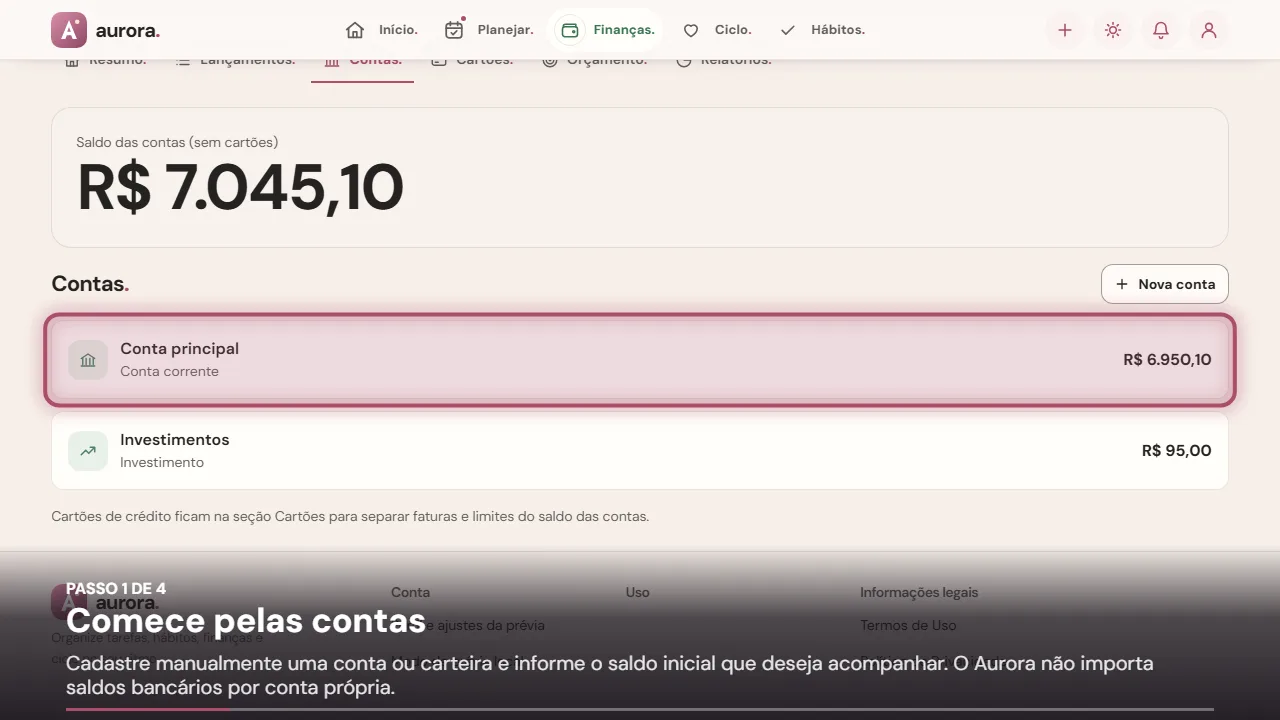
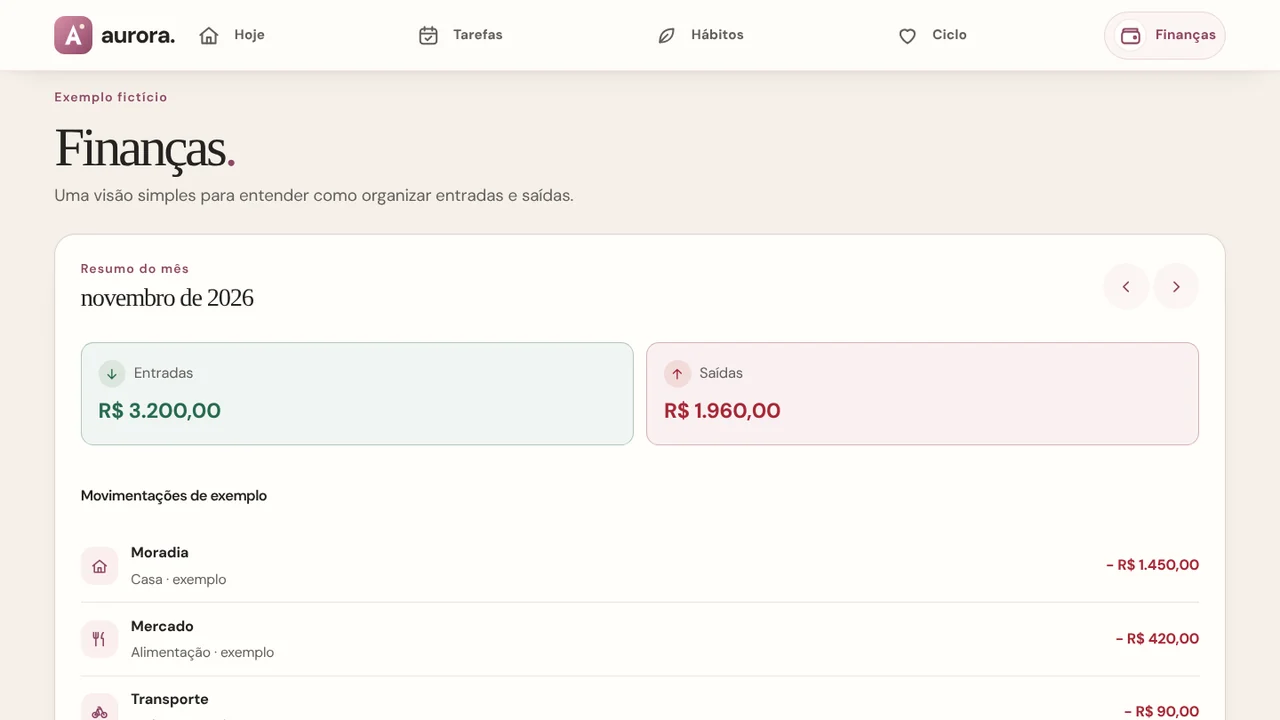
feat(visual): refinar landing, demonstração e áreas logadas
Landing: imagens do hero e dos tutoriais regeradas a partir da demonstração
atual, passos alinhados, títulos mais largos, abas com pista de rolagem, fundos
unificados e rodapé mais compacto.

App: resumo do Hoje em uma linha no desktop, Finanças com totais coloridos e
ícones por categoria, Hábitos em duas colunas, tipografia editorial na
demonstração e bordas de cartão mais definidas.

diff --git a/src/js/features/landing/demo.js b/src/js/features/landing/demo.js
@@ -66,7 +66,7 @@ function renderHabitCard(state, { large = false } = {}) {
 }
 
 function renderPageHeading(eyebrow, title, description = '') {
-  return `<header class="demo-page-heading"><div><p class="section-kicker">${eyebrow}</p><h1 tabindex="-1">${title}</h1>${description ? `<p>${description}</p>` : ''}</div></header>`;
+  return `<header class="demo-page-heading"><div><p class="section-kicker">${eyebrow}</p><h1 tabindex="-1">${title}<i>.</i></h1>${description ? `<p>${description}</p>` : ''}</div></header>`;
 }
 
 function demoNotice() {
@@ -94,7 +94,7 @@ function renderToday(state) {
     <header class="home-head" aria-labelledby="demo-greeting">
       <div>
         <p class="date">${escapeDemoText(shortDate.charAt(0).toUpperCase() + shortDate.slice(1))}</p>
-        <h1 id="demo-greeting" tabindex="-1">${timeBasedGreeting()}, <span class="proper-name">Pessoa</span></h1>
+        <h1 id="demo-greeting" class="type-editorial-display" tabindex="-1">${timeBasedGreeting()}, <span class="proper-name">Pessoa</span><i>.</i></h1>
         <p class="lead" aria-live="polite">${lead}</p>
       </div>
       <div class="ringw" role="img" aria-label="${completed} de ${total} tarefas de hoje concluídas"><svg width="76" height="76" viewBox="0 0 76 76" aria-hidden="true"><circle class="ring-bg" cx="38" cy="38" r="32" fill="none" stroke-width="7"/><circle class="ring-fg" cx="38" cy="38" r="32" fill="none" stroke-width="7" stroke-linecap="round" stroke-dasharray="${circumference.toFixed(1)}" stroke-dashoffset="${offset.toFixed(1)}" transform="rotate(-90 38 38)"/></svg><div class="rt">${completed}/${total}</div></div>
@@ -102,7 +102,7 @@ function renderToday(state) {
     <div class="home-dashboard no-optional-areas">
       <div class="home-primary">
         <section class="card home-today-card" aria-labelledby="demo-today-tasks-title">
-          <div class="head"><div><p class="section-kicker">Seu plano</p><h2 id="demo-today-tasks-title">Hoje</h2></div><div class="row"><button type="button" class="btn ghost sm" data-demo-view="tasks">Ver planejamento</button></div></div>
+          <div class="head"><div><p class="section-kicker">Seu plano</p><h2 id="demo-today-tasks-title" class="type-editorial-title">Hoje</h2></div><div class="row"><button type="button" class="btn ghost sm" data-demo-view="tasks">Ver planejamento</button></div></div>
           <div class="home-task-groups">
             ${open.length ? `<section class="home-task-group" aria-label="Tarefas para hoje"><h3>${demoIcon('calendarCheck', 15)}Para hoje <span>${open.length}</span></h3><ul class="list">${open.map(renderHomeTask).join('')}</ul></section>` : ''}
             ${done.length ? `<details class="home-completed"><summary>${demoIcon('check', 15)}Concluídas hoje <span class="home-completed-count">${done.length}</span></summary><ul class="list">${done.map(renderHomeTask).join('')}</ul></details>` : ''}
@@ -114,7 +114,7 @@ function renderToday(state) {
           <a href="/demonstracao" data-demo-view="tasks"><b>${open.length}</b><span>Pendentes</span></a>
         </section>
         <section class="card home-quick-card" aria-labelledby="demo-quick-title">
-          <div class="home-quick-copy"><span class="home-quick-mark" aria-hidden="true">${demoIcon('plus', 18)}</span><div><h2 id="demo-quick-title">Qual é o próximo passo<i>?</i></h2><p>Experimente adicionar uma tarefa.</p></div></div>
+          <div class="home-quick-copy"><span class="home-quick-mark" aria-hidden="true">${demoIcon('plus', 18)}</span><div><h2 id="demo-quick-title" class="type-editorial-title">Qual é o próximo passo<i>?</i></h2><p>Experimente adicionar uma tarefa.</p></div></div>
           <form class="home-quick-form demo-quick-form" data-demo-task-form>
             <label class="sr" for="demo-home-task">Nova tarefa</label>
             <input id="demo-home-task" name="title" type="text" maxlength="80" autocomplete="off" placeholder="Ex.: caminhar por 10 minutos" required data-demo-task-input>
@@ -175,16 +175,16 @@ function renderFinance(state) {
   const monthKey = `${date.getFullYear()}-${String(date.getMonth() + 1).padStart(2, '0')}`;
   const extraExpenses = state.demoExpenses.filter((item) => item.month === monthKey);
   const items = state.financeMonth === 0
-    ? [['Moradia', 'Casa', 145000], ['Mercado', 'Alimentação', 42000], ['Transporte', 'Rotina', 9000]]
-    : [['Moradia', 'Casa', 120000], ['Mercado', 'Alimentação', 39000]];
+    ? [['Moradia', 'Casa', 145000, 'home'], ['Mercado', 'Alimentação', 42000, 'utensils'], ['Transporte', 'Rotina', 9000, 'bike']]
+    : [['Moradia', 'Casa', 120000, 'home'], ['Mercado', 'Alimentação', 39000, 'utensils']];
   const expenses = items.reduce((total, [, , cents]) => total + cents, 0)
     + extraExpenses.reduce((total, item) => total + item.cents, 0);
   return `${renderPageHeading('Exemplo fictício', 'Finanças', 'Uma visão simples para entender como organizar entradas e saídas.')}
     <section class="card demo-area-panel" aria-labelledby="demo-finance-title">
       <div class="head"><div><p class="section-kicker">Resumo do mês</p><h2 id="demo-finance-title">${escapeDemoText(title)}</h2></div><div class="demo-month-controls" role="group" aria-label="Mês de exemplo"><button type="button" class="iconbtn" data-demo-action="finance-month" data-direction="-1" aria-label="Mês anterior" ${state.financeMonth === 1 ? 'disabled' : ''}>${demoIcon('chevLeft', 18)}</button><button type="button" class="iconbtn" data-demo-action="finance-month" data-direction="1" aria-label="Próximo mês" ${state.financeMonth === 0 ? 'disabled' : ''}>${demoIcon('chevRight', 18)}</button></div></div>
-      <div class="demo-finance-summary"><article><span>Entradas</span><strong>${brl(320000)}</strong></article><article><span>Saídas</span><strong>${brl(expenses)}</strong></article></div>
+      <div class="demo-finance-summary"><article class="is-income"><span><i aria-hidden="true">${demoIcon('arrowDown', 15)}</i>Entradas</span><strong>${brl(320000)}</strong></article><article class="is-expense"><span><i aria-hidden="true">${demoIcon('arrowUp', 15)}</i>Saídas</span><strong>${brl(expenses)}</strong></article></div>
       <h3 class="demo-list-heading">Movimentações de exemplo</h3>
-      <ul class="demo-finance-list">${items.map(([name, category, cents]) => `<li><span class="demo-finance-mark">${demoIcon('wallet', 17)}</span><span><b>${name}</b><small>${category} · exemplo</small></span><strong>− ${brl(cents)}</strong></li>`).join('')}${extraExpenses.map((item) => `<li><span class="demo-finance-mark">${demoIcon('wallet', 17)}</span><span><b>${escapeDemoText(item.title)}</b><small>Outra despesa · exemplo</small></span><strong>− ${brl(item.cents)}</strong></li>`).join('')}</ul>
+      <ul class="demo-finance-list">${items.map(([name, category, cents, icon]) => `<li><span class="demo-finance-mark">${demoIcon(icon, 17)}</span><span><b>${name}</b><small>${category} · exemplo</small></span><strong>− ${brl(cents)}</strong></li>`).join('')}${extraExpenses.map((item) => `<li><span class="demo-finance-mark">${demoIcon('tag', 17)}</span><span><b>${escapeDemoText(item.title)}</b><small>Outra despesa · exemplo</small></span><strong>− ${brl(item.cents)}</strong></li>`).join('')}</ul>
       <form class="demo-add-form" data-demo-expense-form>
         <label for="demo-expense-title">Lançar uma despesa fictícia</label>
         <div><input id="demo-expense-title" name="title" type="text" maxlength="60" placeholder="Ex.: café" required><input name="amount" type="text" inputmode="decimal" maxlength="16" placeholder="R$ 12,50" aria-label="Valor da despesa" required><button class="btn primary" type="submit">Adicionar</button></div>

diff --git a/src/css/pages/landing.css b/src/css/pages/landing.css
@@ -3198,3 +3198,118 @@ html:has(.landing-marketing) { overflow-x: clip; }
 @media (900px <= width < 1200px) {
   .public-site.landing-marketing .public-hero { grid-template-columns: minmax(0, 1.12fr) minmax(0, .88fr); }
 }
+
+/* Revisão visual (nov/2026): ritmo das seções, "Como começar" alinhado, abas com pista de rolagem e rodapé mais compacto. */
+.landing-marketing .public-section-heading h2,
+.landing-marketing .landing-final-cta h2 { max-width: 30ch; }
+
+/* As seções claras usam a mesma família de tons do hero; só "Pode confiar" fica escura. */
+.landing-marketing .landing-steps { background: var(--soft); }
+.landing-marketing .landing-final-cta { background: var(--soft2); }
+
+/* Os três passos dividem as linhas do grid, então títulos de uma ou duas linhas não desalinham os textos. */
+.landing-steps-grid { row-gap: var(--space-4); }
+@media (width >= 901px) {
+  .landing-steps-grid li {
+    display: grid;
+    grid-row: span 3;
+    grid-template-rows: subgrid;
+    row-gap: 0;
+  }
+  .landing-steps-grid li > p { margin-top: var(--space-2); }
+}
+.landing-steps-grid h3 { text-wrap: balance; }
+.landing-marketing .landing-steps-cta { justify-self: center; }
+
+/* No celular as abas rolam de lado: o degradê no fim mostra que há mais áreas. */
+@media (width <= 700px) {
+  .landing-marketing .landing-tutorial-tabs {
+    padding-inline-end: var(--space-6);
+    scroll-padding-inline: var(--space-3);
+    mask-image: linear-gradient(to right, #000 calc(100% - var(--space-7)), transparent);
+  }
+}
+
+/* Rodapé: links mais próximos com mouse; o alvo de toque de 44px continua no celular. */
+@media (pointer: fine) {
+  .landing-footer-link-group a,
+  .landing-footer-top { min-height: 32px; }
+}
+.landing-footer-nav { align-content: start; }
+
+/* Demonstração: mesma tipografia editorial do app (título em serifa, ponto na cor da marca). */
+.demo-app .home-head h1.type-editorial-display,
+.demo-app .demo-page-heading h1 {
+  color: var(--ink);
+  font-family: var(--font-editorial);
+  font-size: var(--text-page-title);
+  font-weight: var(--weight-regular);
+  letter-spacing: var(--tracking-editorial);
+  line-height: var(--leading-editorial);
+}
+.demo-app .home-head h1 i,
+.demo-app .demo-page-heading h1 i { color: var(--accent); font-style: normal; }
+.demo-app .home-head h1.type-editorial-display { max-width: none; }
+.demo-app .home-today-card > .head h2.type-editorial-title,
+.demo-app .home-quick-card h2.type-editorial-title,
+.demo-app .demo-area-panel > .head h2 {
+  color: var(--ink);
+  font-family: var(--font-editorial);
+  font-size: var(--text-editorial-title);
+  font-weight: var(--weight-regular);
+  letter-spacing: -.04em;
+  line-height: var(--leading-tight);
+}
+.demo-app .home-quick-card h2 i { color: var(--accent); font-style: normal; }
+
+/* Finanças: entradas e saídas com tom próprio e ícone de categoria em cada linha. */
+.demo-finance-summary .is-income { --summary-tone: var(--ok); }
+.demo-finance-summary .is-expense { --summary-tone: var(--bad); }
+.demo-finance-summary article {
+  border: 1px solid color-mix(in srgb, var(--summary-tone) 22%, var(--line));
+  background: color-mix(in srgb, var(--summary-tone) 7%, var(--surface-raised));
+}
+.demo-finance-summary span { display: flex; align-items: center; gap: var(--space-2); }
+.demo-finance-summary span i {
+  display: inline-grid;
+  width: 26px;
+  height: 26px;
+  place-items: center;
+  border-radius: var(--r-pill);
+  background: color-mix(in srgb, var(--summary-tone) 16%, var(--surface));
+  color: var(--summary-tone);
+}
+.demo-finance-summary strong { color: var(--summary-tone); font-size: var(--text-xl); font-variant-numeric: tabular-nums; }
+.demo-finance-list .demo-finance-mark {
+  display: grid;
+  width: 36px;
+  height: 36px;
+  flex: none;
+  place-items: center;
+  border-radius: var(--r-control);
+  background: var(--soft2);
+  color: var(--accent);
+}
+.demo-finance-list li > strong { color: var(--bad); font-variant-numeric: tabular-nums; white-space: nowrap; }
+
+/* Hábitos: o cartão e a nota dividem a largura no desktop, e o ícone ganha um apoio visual. */
+@media (width >= 900px) {
+  .demo-area-single:has(.demo-habit-card--large) {
+    width: 100%;
+    grid-template-columns: minmax(0, 1.5fr) minmax(0, 1fr);
+    align-items: start;
+  }
+}
+.demo-habit-card > .head > .ic {
+  display: grid;
+  width: 44px;
+  height: 44px;
+  place-items: center;
+  border-radius: var(--r-control);
+  background: var(--soft2);
+}
+
+/* Menu da demonstração no celular: o degradê no fim mostra que há mais áreas ao rolar. */
+@media (width < 900px) {
+  .demo-app .topbar .demo-nav { mask-image: linear-gradient(to right, #000 calc(100% - 28px), transparent); }
+}

diff --git a/src/js/features/landing/view.js b/src/js/features/landing/view.js
@@ -139,10 +139,10 @@ function landingFooter() {
           <h2>Começar</h2>
           <a href="${signup}" data-public-action="signup">Criar conta</a>
           <a href="${login}" data-public-action="login">Entrar</a>
+          <a href="${demo}" data-public-action="demo">Demonstração</a>
         </div>
         <div class="landing-footer-link-group">
           <h2>Explorar</h2>
-          <a href="${demo}" data-public-action="demo">Demonstração</a>
           <a href="${privacy}">Privacidade</a>
           <a href="${APP_URL}/terms.html">Termos de uso</a>
         </div>

diff --git a/src/css/pages/home.css b/src/css/pages/home.css
@@ -1649,3 +1649,9 @@
   background: transparent;
   box-shadow: none;
 }
+
+/* Resumo do dia: no desktop os indicadores dividem a linha em vez de deixar um sozinho embaixo. */
+@media (width > 700px) {
+  .main[data-route="inicio"] .home-dashboard .strip,
+  .demo-app .home-dashboard .strip { grid-template-columns: repeat(auto-fit, minmax(150px, 1fr)); }
+}

diff --git a/src/css/design-system/cards.css b/src/css/design-system/cards.css
@@ -4,7 +4,7 @@
   flex-direction: column;
   gap: var(--card-content-gap);
   padding: var(--card-padding);
-  border: 1px solid color-mix(in srgb, var(--accent) 7%, var(--line));
+  border: 1px solid color-mix(in srgb, var(--accent) 12%, var(--line));
   border-radius: var(--r-card);
   background: var(--surface-strong);
   box-shadow: var(--elev-1);
